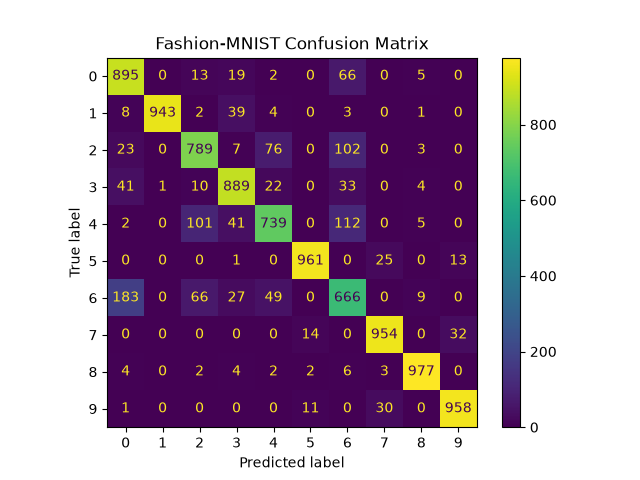
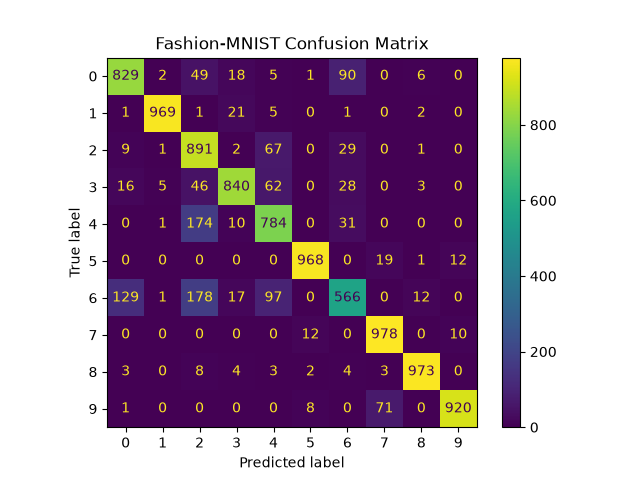
Teammate modified preprocessing

diff --git a/src/preprocess.py b/src/preprocess.py
@@ -17,6 +17,9 @@ y_test = np.load("data/raw/y_test.npy")
 x_train = x_train.astype("float32") / 255.0
 x_test = x_test.astype("float32") / 255.0
 
+x_train = x_train * 0.95
+x_test = x_test * 0.95
+
 x_train, x_val, y_train, y_val = train_test_split(
     x_train,
     y_train,
